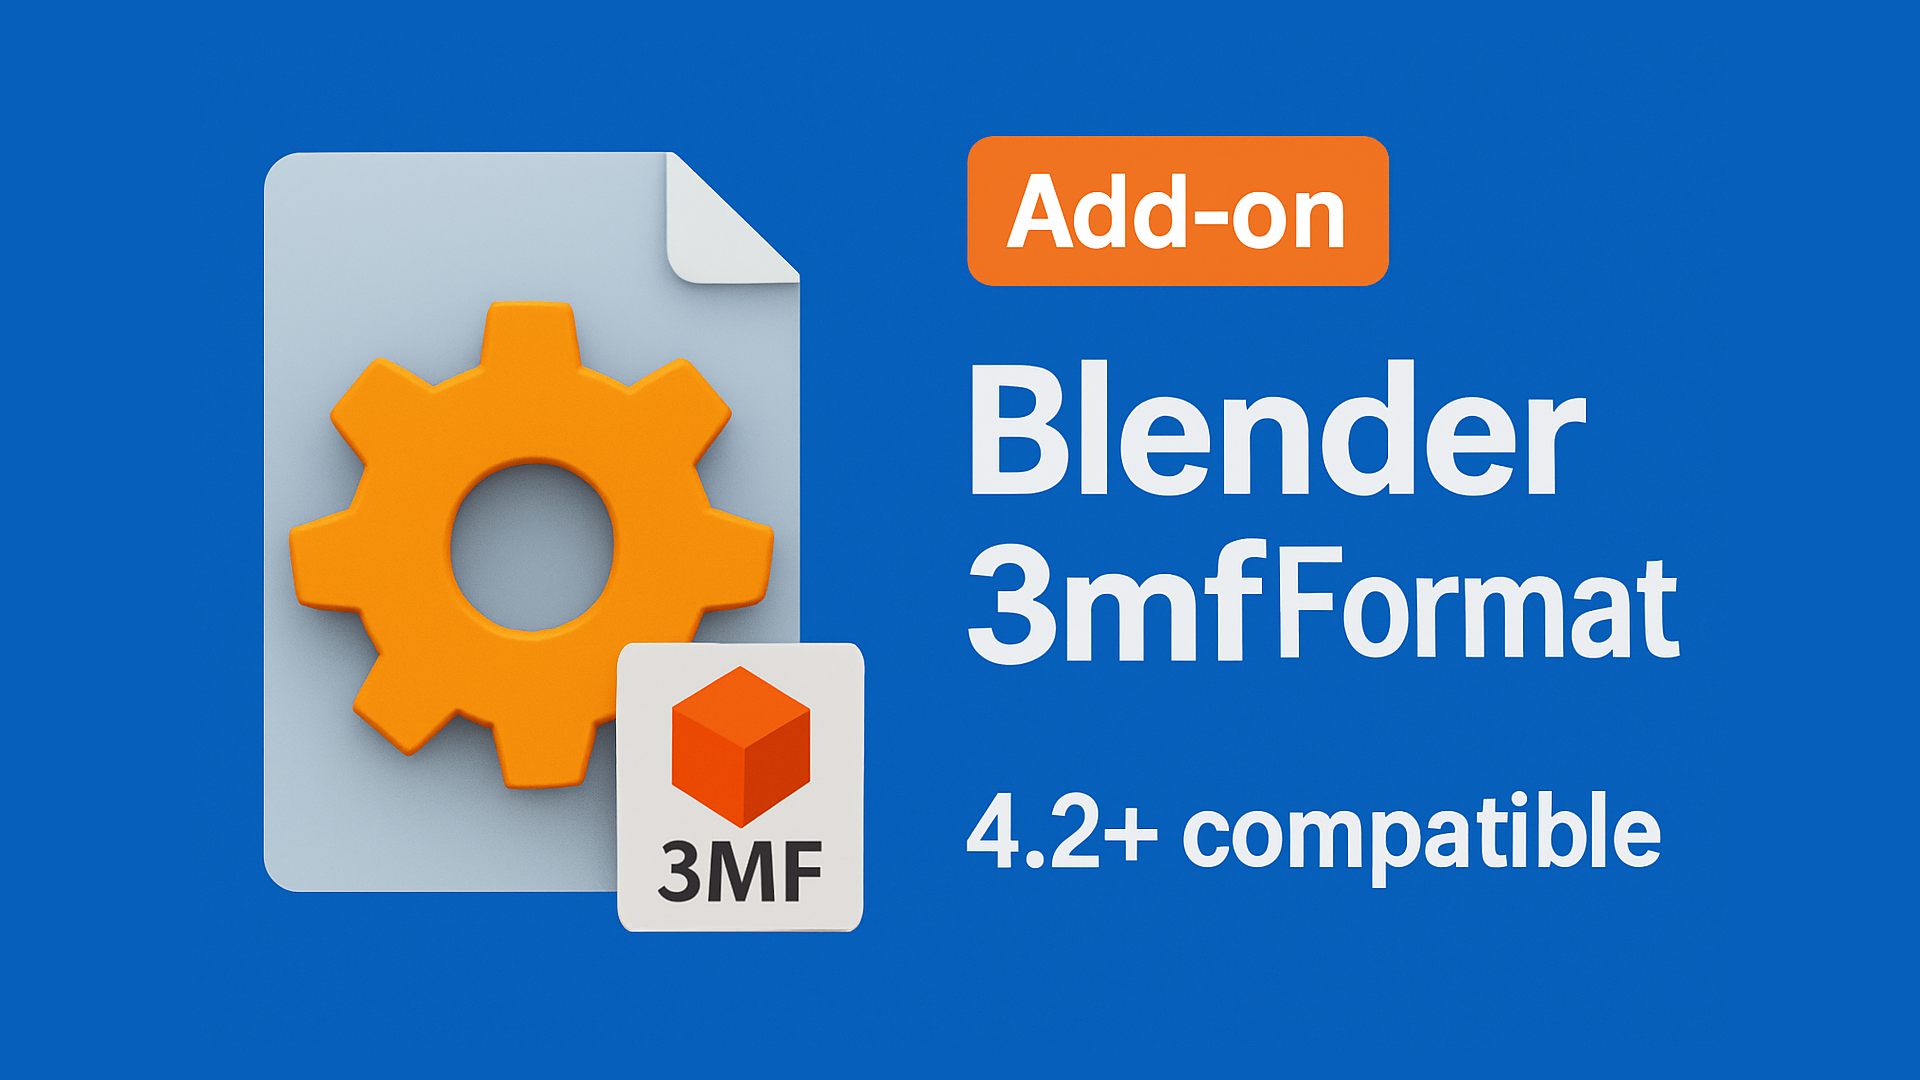
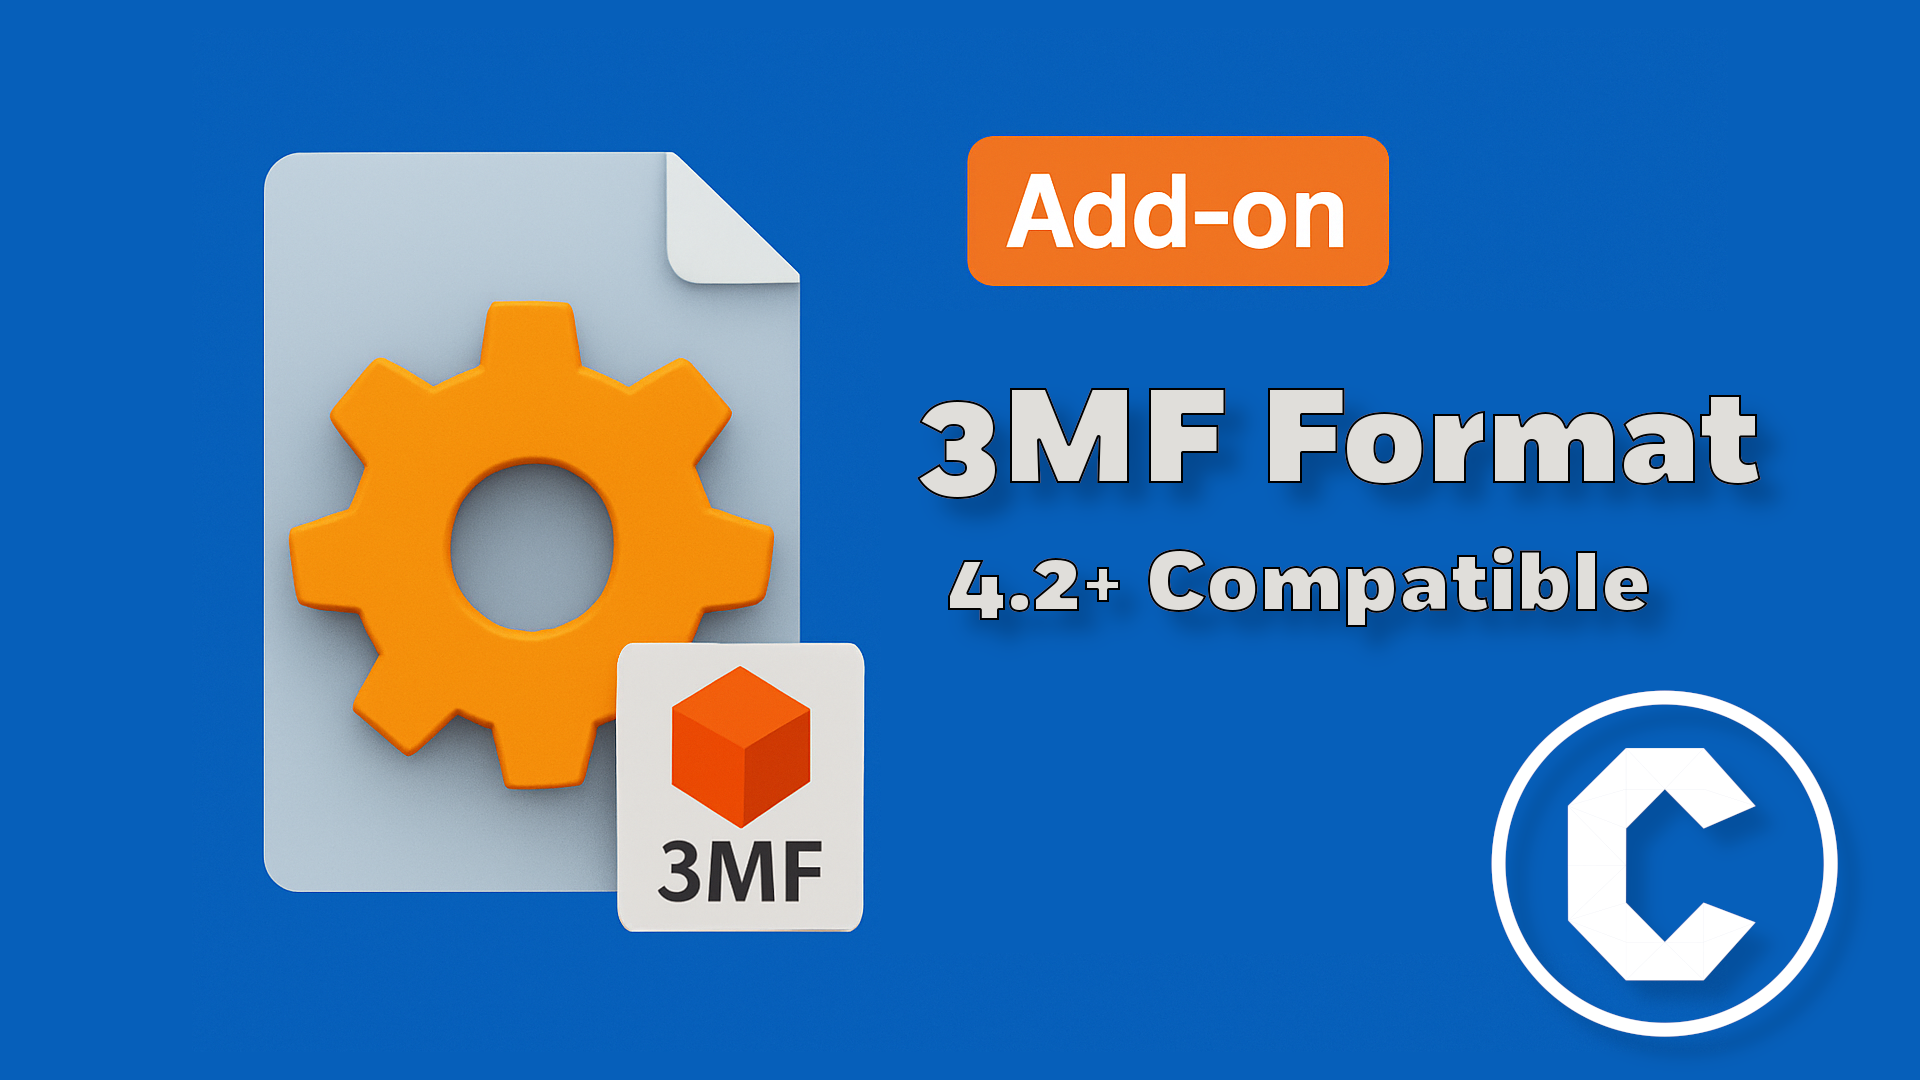
Refactor module reload
Rework addon module reload behavior and bump addon version.

- io_mesh_3mf/__init__.py: Simplify reload detection by using a _needs_reload flag before importing bpy, group import_3mf/export_3mf imports, and call importlib.reload when reloading is needed. Adds a reload confirmation print and preserves Export3MF/Import3MF class imports for registration.
- 3mfImportExport.png: Update binary asset (icon/image) included in the addon.

These changes improve clarity and correctness of the reload sequence when the add-on is reloaded within Blender and reflect the new release version.

Changed region(s): [[0.4688, 0.3361, 0.9375, 0.6111], [0.5, 0.6417, 0.9688, 0.9778], [0.8125, 0.9167, 0.8438, 0.9472]]

diff --git a/io_mesh_3mf/__init__.py b/io_mesh_3mf/__init__.py
@@ -9,19 +9,23 @@
 # You should have received a copy of the GNU General Public License along with this program; if not, write to the Free
 # Software Foundation, Inc., 51 Franklin Street, Fifth Floor, Boston, MA 02110-1301 USA.
 
-# Reload functionality.
-if "bpy" in locals():
-    import importlib
-    from . import import_3mf, export_3mf
-
-    importlib.reload(import_3mf)
-    importlib.reload(export_3mf)
-else:
-    from . import import_3mf, export_3mf
+# Reload functionality - must check before importing bpy
+_needs_reload = "bpy" in locals()
 
 import bpy.types  # To (un)register the add-on as an import/export function.
 import bpy.props  # For addon preferences properties.
 import bpy.utils  # To (un)register the add-on.
+
+from . import (
+    import_3mf,
+    export_3mf,
+)
+
+if _needs_reload:
+    import importlib
+    import_3mf = importlib.reload(import_3mf)
+    export_3mf = importlib.reload(export_3mf)
+    print("3MF Format Add-on Reloaded")
 
 from .export_3mf import Export3MF  # Exports 3MF files.
 from .import_3mf import Import3MF  # Imports 3MF files.
